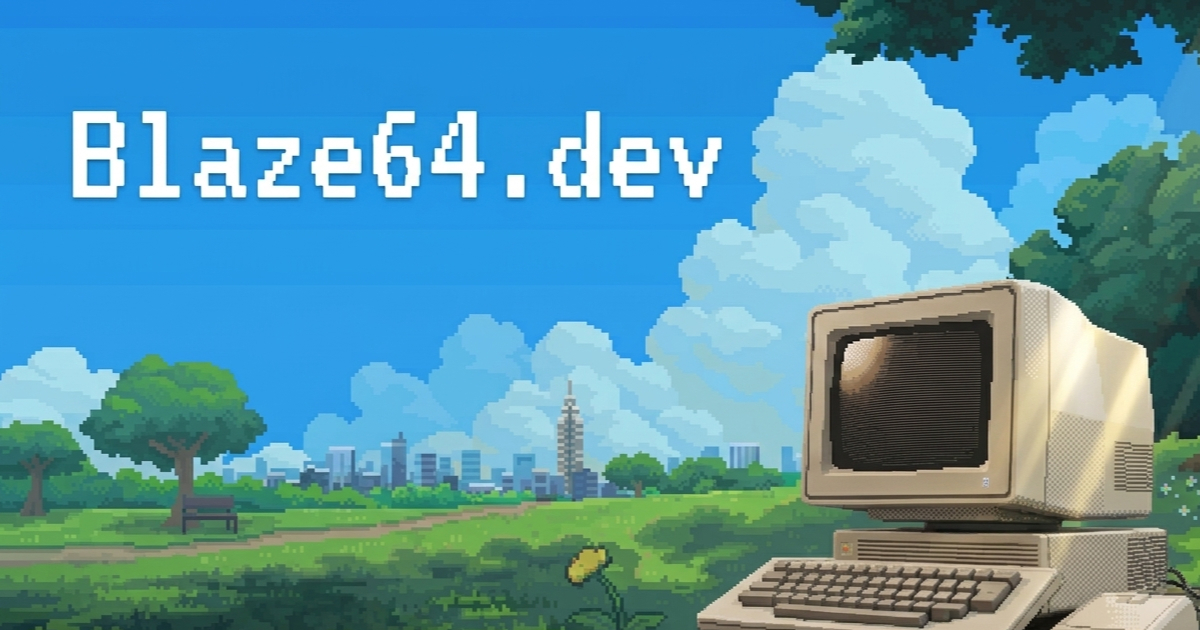
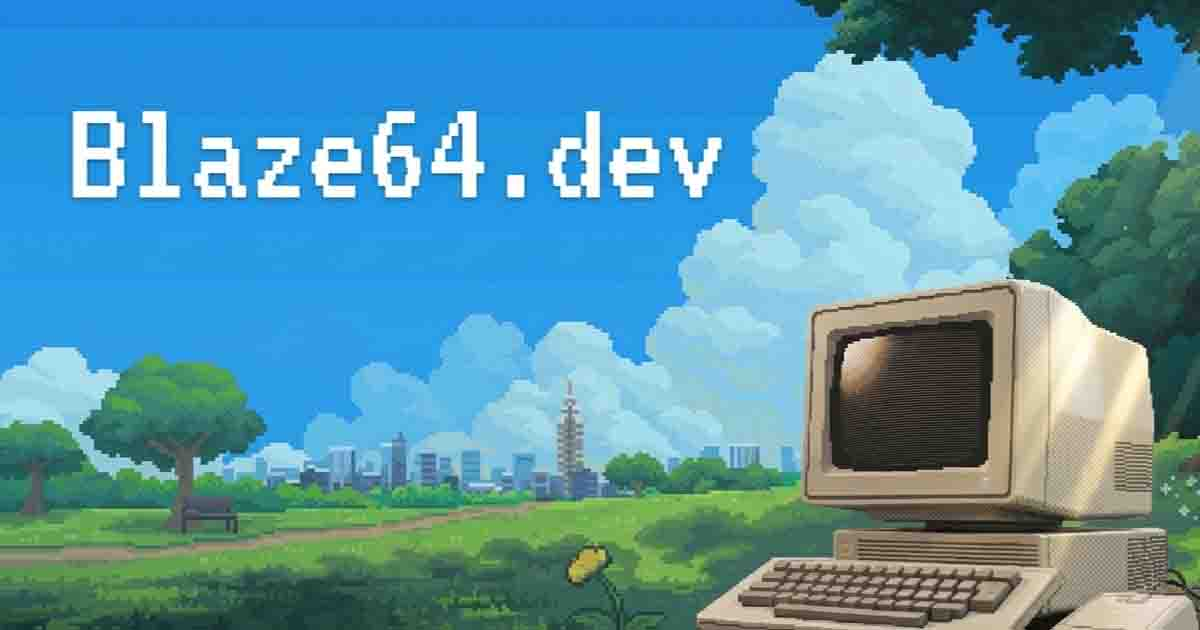
update: increase homepage paragraph & optimize og image

diff --git a/src/app/page.tsx b/src/app/page.tsx
@@ -9,15 +9,22 @@ export default function Page() {
           contentEditable
           suppressContentEditableWarning
         >
-          $ {`Hello!, I'm Sandev Abeykoon`}
+          $ {`hello!, I'm Sandev Abeykoon`}
         </h1>
         <span className="text-sm  animate-blink text-slate-600 select-none">
           ▌
         </span>
       </div>
       <p className="mb-4 text-md">
-        {`I build cool things for the web and I am always open to exciting challenges. Welcome to my field journal!`}
+        {`i build cool things for the web and I am always open to exciting challenges. welcome to my field journal!`}
       </p>
+      <p className="mb-4 text-md">
+        {`i've been writing software for about 5 years now, two of them in DevOps and the rest in full-stack development. I started out building websites for local businesses, and along the way I've gotten to work with some great people and teams.`}
+      </p>
+      <p className="mb-8 text-md">
+        {`right now I'm curious about system design, and about how AI agentic systems can solve real business problems and give people back valuable time. that mix of business and solutions-driven thinking is part of what's pulling me toward becoming a software architect. on the tooling side, I've been enjoying building UIs with TanStack Start with React, and working with Go using domain-driven architecture.`}
+      </p>
+      <div className="border-t" />
       <div className="my-8">
         <BlogPosts maxPosts={10} />
       </div>

diff --git a/src/app/layout.tsx b/src/app/layout.tsx
@@ -10,7 +10,7 @@ import "./globals.css";
 
 const title = "Sandev Abeykoon - Dev Log";
 const description =
-  "Field notes from Sandev Abeykoon, a full-stack engineer who works with everything computers and servers — cloud infrastructure, distributed systems, and whatever else breaks along the way.";
+  "Field notes from Sandev Abeykoon, a full-stack engineer covering cloud infrastructure, distributed systems, and whatever else breaks along the way.";
 const ogImage = `${baseUrl}/og-image.jpg`;
 
 export const metadata: Metadata = {
